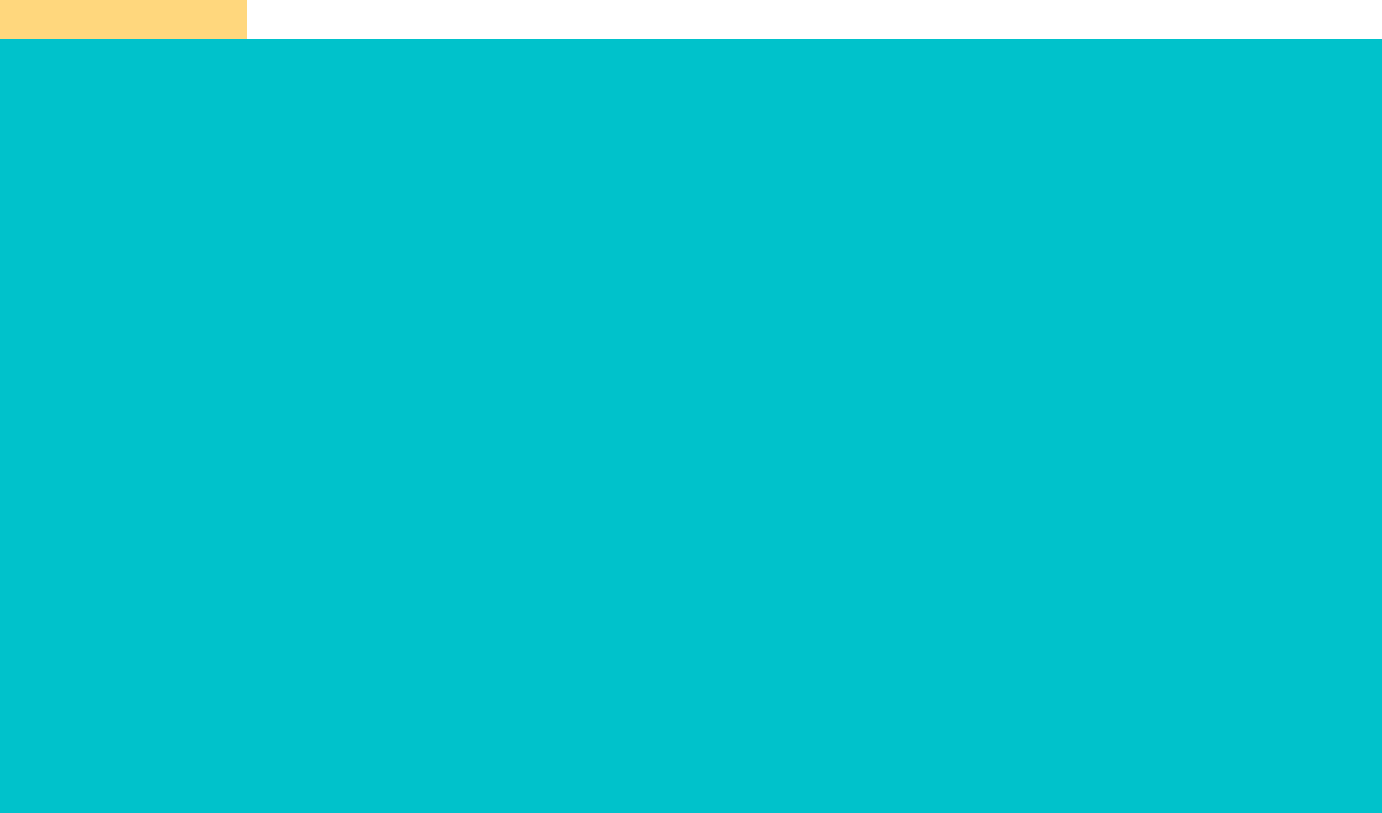
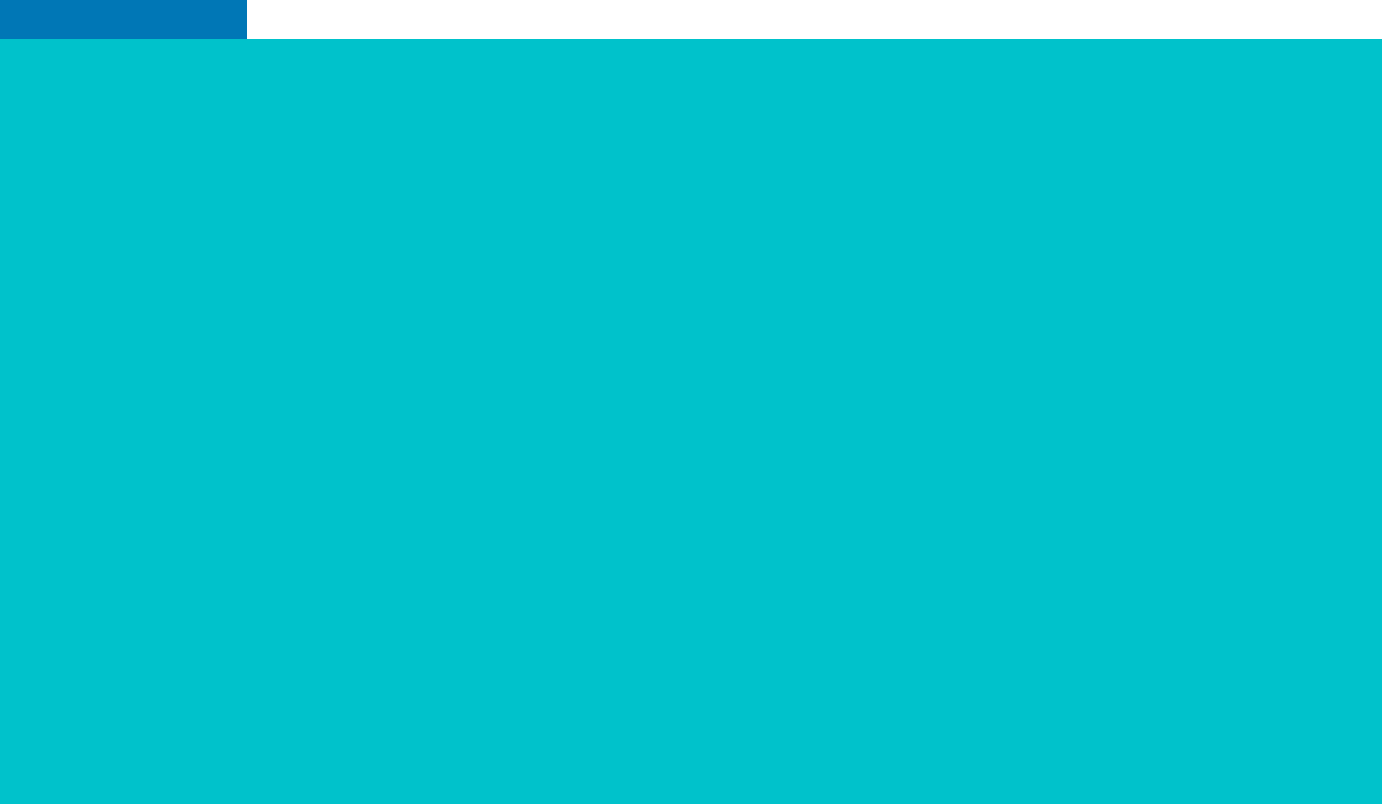
vp1-04: Fixed font size to make it responsive. Missing community and campaigns.

Changed region(s): [[0.0, 0.0, 0.1867, 0.0622]]

diff --git a/styles/navBarStyles.css b/styles/navBarStyles.css
@@ -5,6 +5,7 @@ nav{
     color:#6c757d;
     font-weight:400; !important
     letter-spacing: 0.01rem;
+    font-size:calc(16px + 0.6vw);
     position: fixed;
     display: flex;
     flex-flow: row-reverse nowrap;
@@ -25,7 +26,7 @@ nav *{
 
 #logo{
     margin:0 auto 0 5vw;
-    width:20vw;
+    width:170px;
     height:auto;
     position:fixed;
     top:0px;
@@ -40,19 +41,19 @@ nav *{
 }
 
 #donate-btn{
-    font-size:16px;
     color:white;
     background-color: #0077B6;
     display: flex;
     justify-content: center;
     align-content: center;
+    font-size:calc(16px + 0.6vw);
     padding: 2vw 4vw 2vw 4vw;
     margin: 0.3vw 1vw 0.3vw 1vw;
     cursor:pointer;
 }
 
 #donate-btn a{
-    font-size:14px;
+
     color:white;
     text-decoration:none;
     cursor:pointer;
@@ -72,7 +73,6 @@ nav *{
     color:white;
     box-sizing:border-box;
     letter-spacing: 0.01rem;
-    font-size: 16px;
     position:fixed;
     display:none;
     flex-flow: column nowrap;
@@ -128,18 +128,14 @@ nav *{
     background-color: #00C2CB;
 }
 
-@media only screen and (min-width:680px) {
-
-    html {
-        font-size: 15px;
-    }
+@media only screen and (min-width:1090px) {
 
     nav{
         flex-flow:row-reverse nowrap;
         justify-content: flex-start;
         padding:5vh 5vw 4vh 1vw;
         margin: 0;
-
+        font-size: calc(11px + 0.4vw);
     }
 
     nav *{
@@ -174,28 +170,18 @@ nav *{
     #donate-btn {
         padding: 0.8vw 2vw 0.8vw 2vw;
         margin: 0.3vw 0.3vw 0.3vw 0.5vw;
+        font-size: calc(14px + 0.3vw)
     }
 
     nav * {
         margin: 0.5vh 1vw 0.5vh 1.2vw;
         letter-spacing: 0.01rem;
-        font-size: 11px;
     }
 
     #logo {
         margin: 0 auto 0 5vw;
-        width: 10vw;
+        width: calc(130px + 3vw);
         height: auto;
-        left: 1vw;
-    }
-}
-
-@media only screen and (min-width:680px) and (max-width:750px) {
-    #logo{
-
-        margin-left:0vw; !important
-        width: 10vw; !important
-        height: auto;
-        left: 0.5vw; !important
+        left: 0.8vw;
     }
 }

diff --git a/scripts/navBar.js b/scripts/navBar.js
@@ -1,3 +1,5 @@
+let baseurl = "website-violinesPorLaPaz";
+
 /**
  * This script manages the behaviour of the navigation bar, including the links, selected element, and opening and closing
  * of the side navbar in narrow windows.
@@ -14,18 +16,20 @@ window.addEventListener("resize", changeNav);
  * corresponding to it.
  */
 function loadLinks(){
+    for(let key in window.location){
+        console.log(`Key: ${key}. Value: ${window.location[key]}`);
+    }
     let frame = document.getElementById("navBar").contentDocument;
     let smallNav = frame.getElementById("small-navbar-button");
     let donate = frame.getElementById("donate-btn");
     smallNav.addEventListener("click", toggleNav)
     donate.onclick = () => window.open("https://www.paypal.com/donate/?hosted_button_id=QT4ZRWJ5Z28T6")
-    console.log(smallNav.onclick);
     let links = frame.getElementsByClassName("menuLink");
     for(let i = 0; i < links.length;i++) {
-        console.log(links[i].id);
+        console.log(links[i].dataset.href);
         links[i].onclick = function(){
             window.sessionStorage["select"] = this.id;
-            window.location = this.dataset.href;
+            window.location.pathname = baseurl + this.dataset.href;
         }
     }
 };
@@ -38,7 +42,8 @@ function loadLinks(){
 function changeNav(){
     let frame = document.getElementById("navBar").contentDocument;
     let status = frame.getElementById("large-navbar").dataset.status;
-    if(status == "open" && window.innerWidth >= 700){
+    let content = document.getElementsByClassName("content")[0];
+    if(status == "open" && window.innerWidth >= 990){
         frame.getElementById("large-navbar").dataset.status = "closed";
         content.removeEventListener("click", closeNav)
         closeNav();

diff --git a/styles/indexStyles.css b/styles/indexStyles.css
@@ -2,7 +2,7 @@
 
 #main-name{
     margin-bottom:10vh;
-    margin-top: 25vh;
+    margin-top: 12vh;
     background-color: #00C2CB;
 }
 
@@ -27,7 +27,7 @@
     text-transform:uppercase;
     letter-spacing:0.1rem;
     color:white;
-    font-size: 15px;
+    font-size: calc(18px + 0.6vw);
     text-align:center;
     padding: 4vh 0 6vh 0;
     margin-bottom:5vh;
@@ -39,7 +39,7 @@
     flex-flow: column nowrap;
     align-content: center;
     justify-content: center;
-    max-height:40vh;
+
     max-width:100%;
     padding: 10vh 10vw 10vh 10vw;
     background-image:url('../images/laborBackground.png');
@@ -176,7 +176,7 @@ TODO: Create a class for the h2 headers and adjust html
     object-fit:cover;
 }
 
-@media only screen and (min-width:700px){
+@media only screen and (min-width:850px){
 
     #labor{
         display:grid;

diff --git a/styles/generalStyles.css b/styles/generalStyles.css
@@ -1,7 +1,7 @@
 html{
     font-family: "Muli", sans-serif;
     font-weight:400;
-    font-size:16px;
+    font-size:calc(16px + 0.5vw);
     color:#6c757d;
     overflow-x:hidden;
 }
@@ -16,6 +16,7 @@ iframe{
     border:none;
     top:0;
     left:0;
+    height:30vh;
     width:100vw;
 }
 
@@ -90,12 +91,4 @@ h6{
     padding: 0vh 8vw 0vh 8vw;
     margin: 1vh 10vw 1vh 10vw;
     border-bottom: solid #0077B6 5px;
-}
-
-@media only screen and (min-width:700px) {
-
-    html {
-        font-size: 14px;
-        line-height:150%;
-    }
 }
